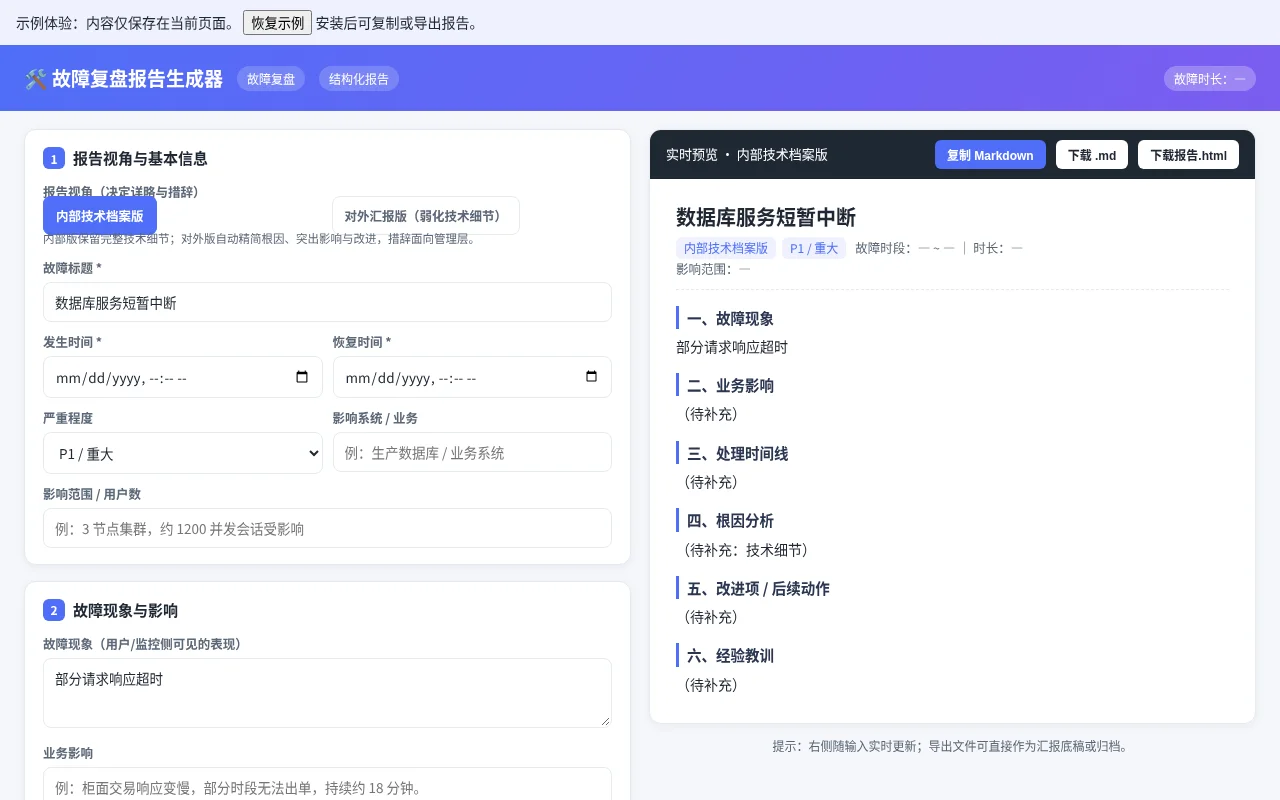
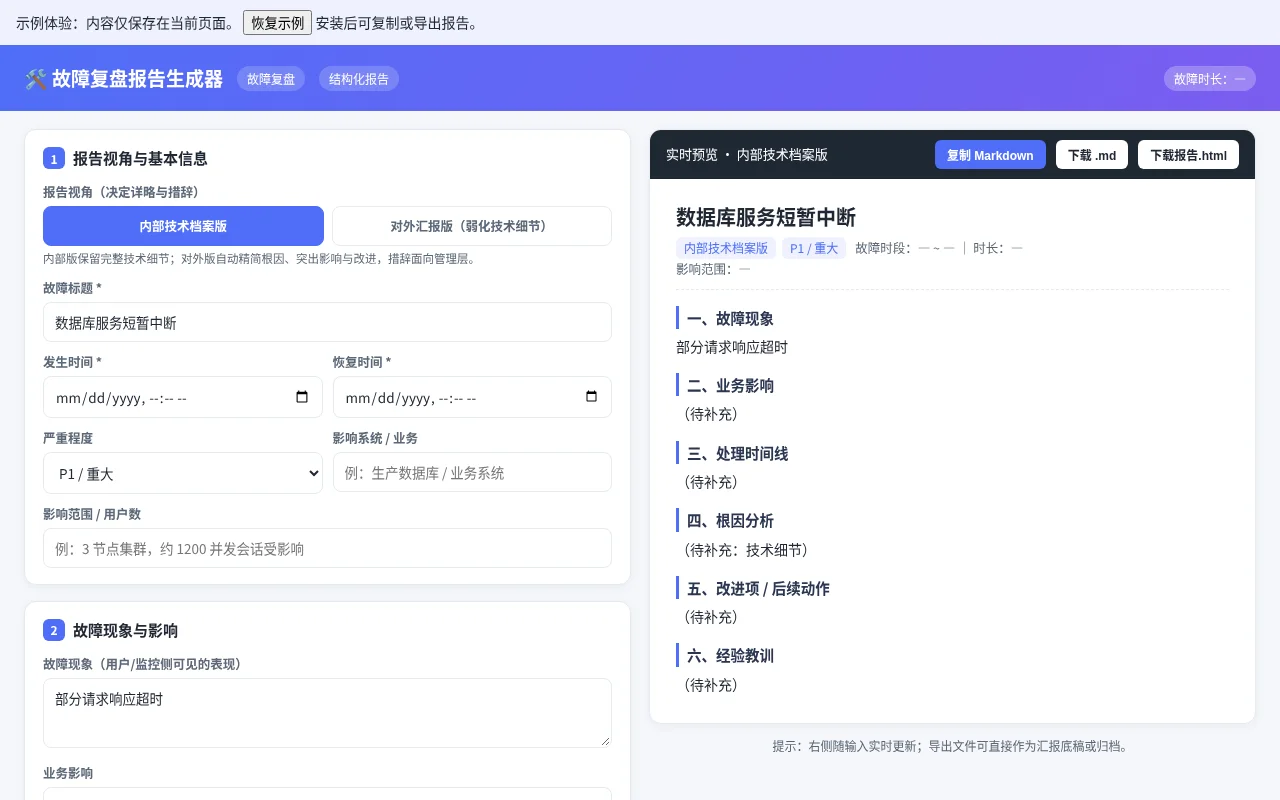
Fix incident report mobile view controls

diff --git a/197f4de955522fa913cdf13a/showcase/preview.html b/197f4de955522fa913cdf13a/showcase/preview.html
@@ -22,9 +22,9 @@
   input:focus,textarea:focus,select:focus{outline:none;border-color:var(--accent);box-shadow:0 0 0 3px var(--accent-soft)}
   .row{display:grid;grid-template-columns:1fr 1fr;gap:10px}
   .seg{display:flex;gap:8px;flex-wrap:wrap}
-  .seg label{margin:0;flex:1}
+  .seg label{margin:0;flex:1;min-width:0}
   .seg input{position:absolute;width:1px;height:1px;opacity:0;pointer-events:none}
-  .seg .opt{border:1px solid var(--line);border-radius:8px;padding:9px 12px;text-align:center;cursor:pointer;background:#fff;font-weight:600;color:var(--sub);transition:.15s}
+  .seg .opt{display:block;border:1px solid var(--line);border-radius:8px;padding:9px 12px;text-align:center;cursor:pointer;background:#fff;font-weight:600;color:var(--sub);transition:.15s}
   .seg input:checked+.opt{background:var(--accent);border-color:var(--accent);color:#fff}
   .timeline-row,.fix-row{display:grid;gap:8px;margin-bottom:8px;align-items:start}
   .timeline-row{grid-template-columns:160px 1fr 32px}

diff --git a/197f4de955522fa913cdf13a/src/style.css b/197f4de955522fa913cdf13a/src/style.css
@@ -22,9 +22,9 @@
   input:focus,textarea:focus,select:focus{outline:none;border-color:var(--accent);box-shadow:0 0 0 3px var(--accent-soft)}
   .row{display:grid;grid-template-columns:1fr 1fr;gap:10px}
   .seg{display:flex;gap:8px;flex-wrap:wrap}
-  .seg label{margin:0;flex:1}
+  .seg label{margin:0;flex:1;min-width:0}
   .seg input{position:absolute;width:1px;height:1px;opacity:0;pointer-events:none}
-  .seg .opt{border:1px solid var(--line);border-radius:8px;padding:9px 12px;text-align:center;cursor:pointer;background:#fff;font-weight:600;color:var(--sub);transition:.15s}
+  .seg .opt{display:block;border:1px solid var(--line);border-radius:8px;padding:9px 12px;text-align:center;cursor:pointer;background:#fff;font-weight:600;color:var(--sub);transition:.15s}
   .seg input:checked+.opt{background:var(--accent);border-color:var(--accent);color:#fff}
   .timeline-row,.fix-row{display:grid;gap:8px;margin-bottom:8px;align-items:start}
   .timeline-row{grid-template-columns:160px 1fr 32px}
